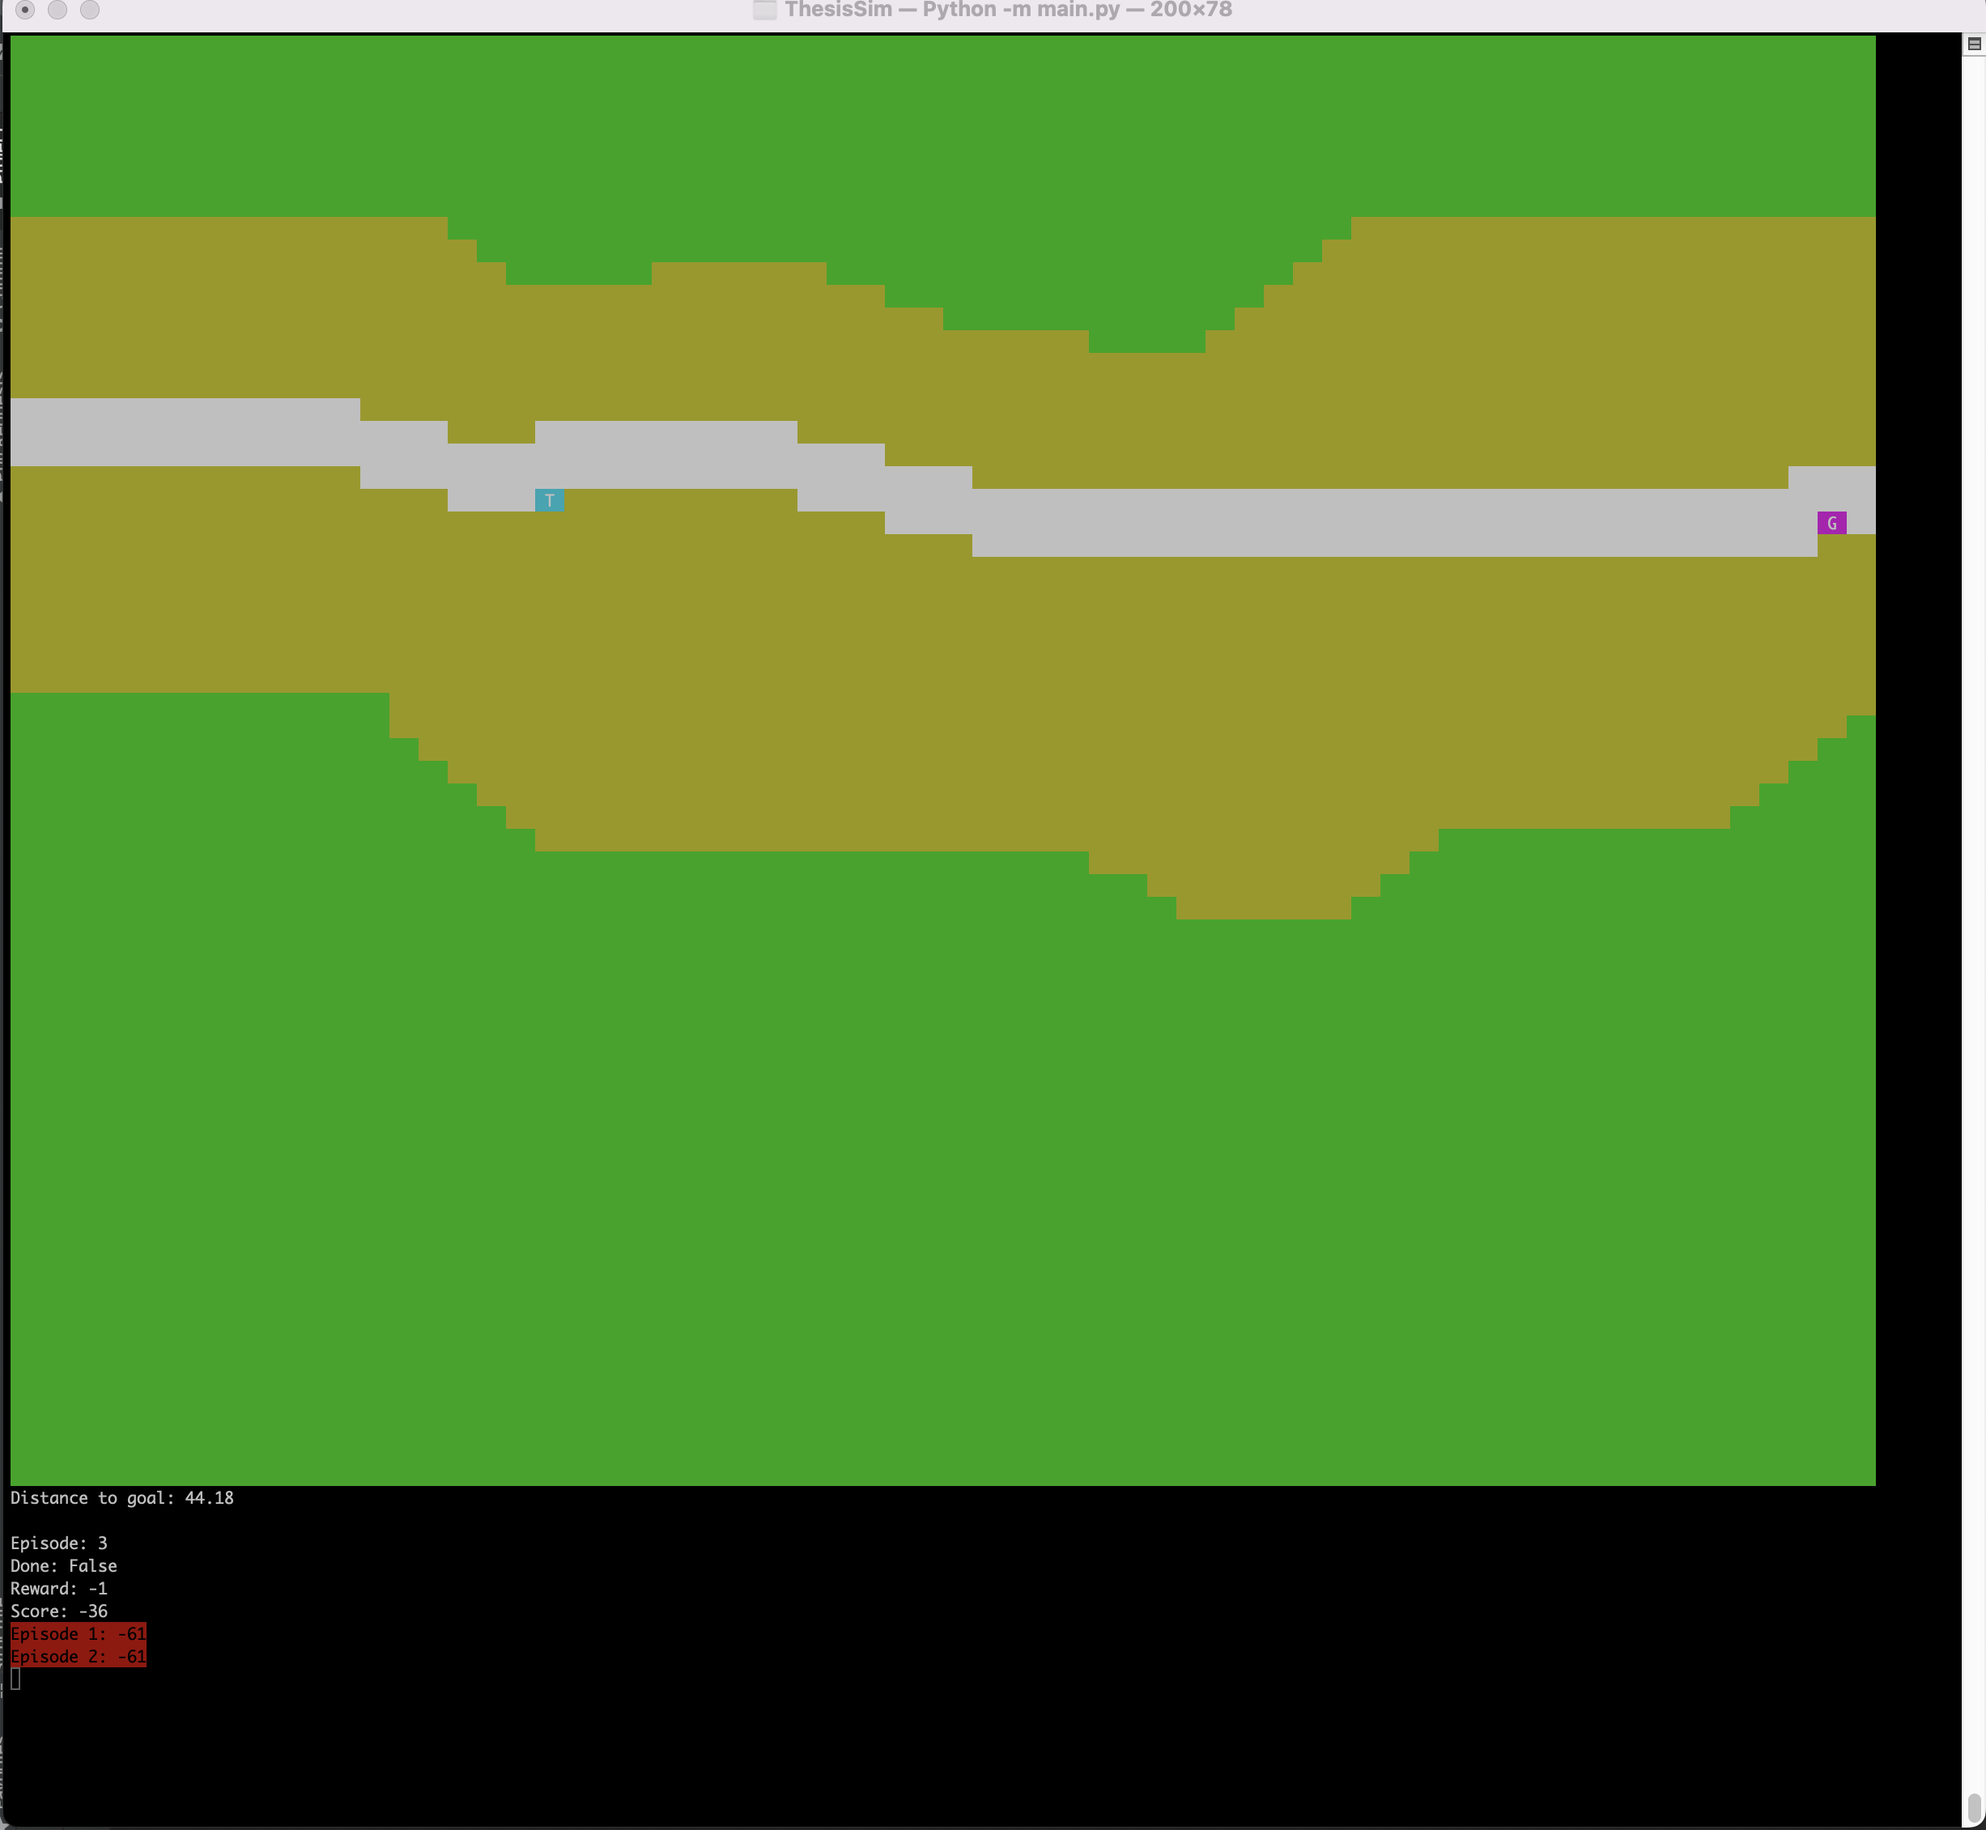
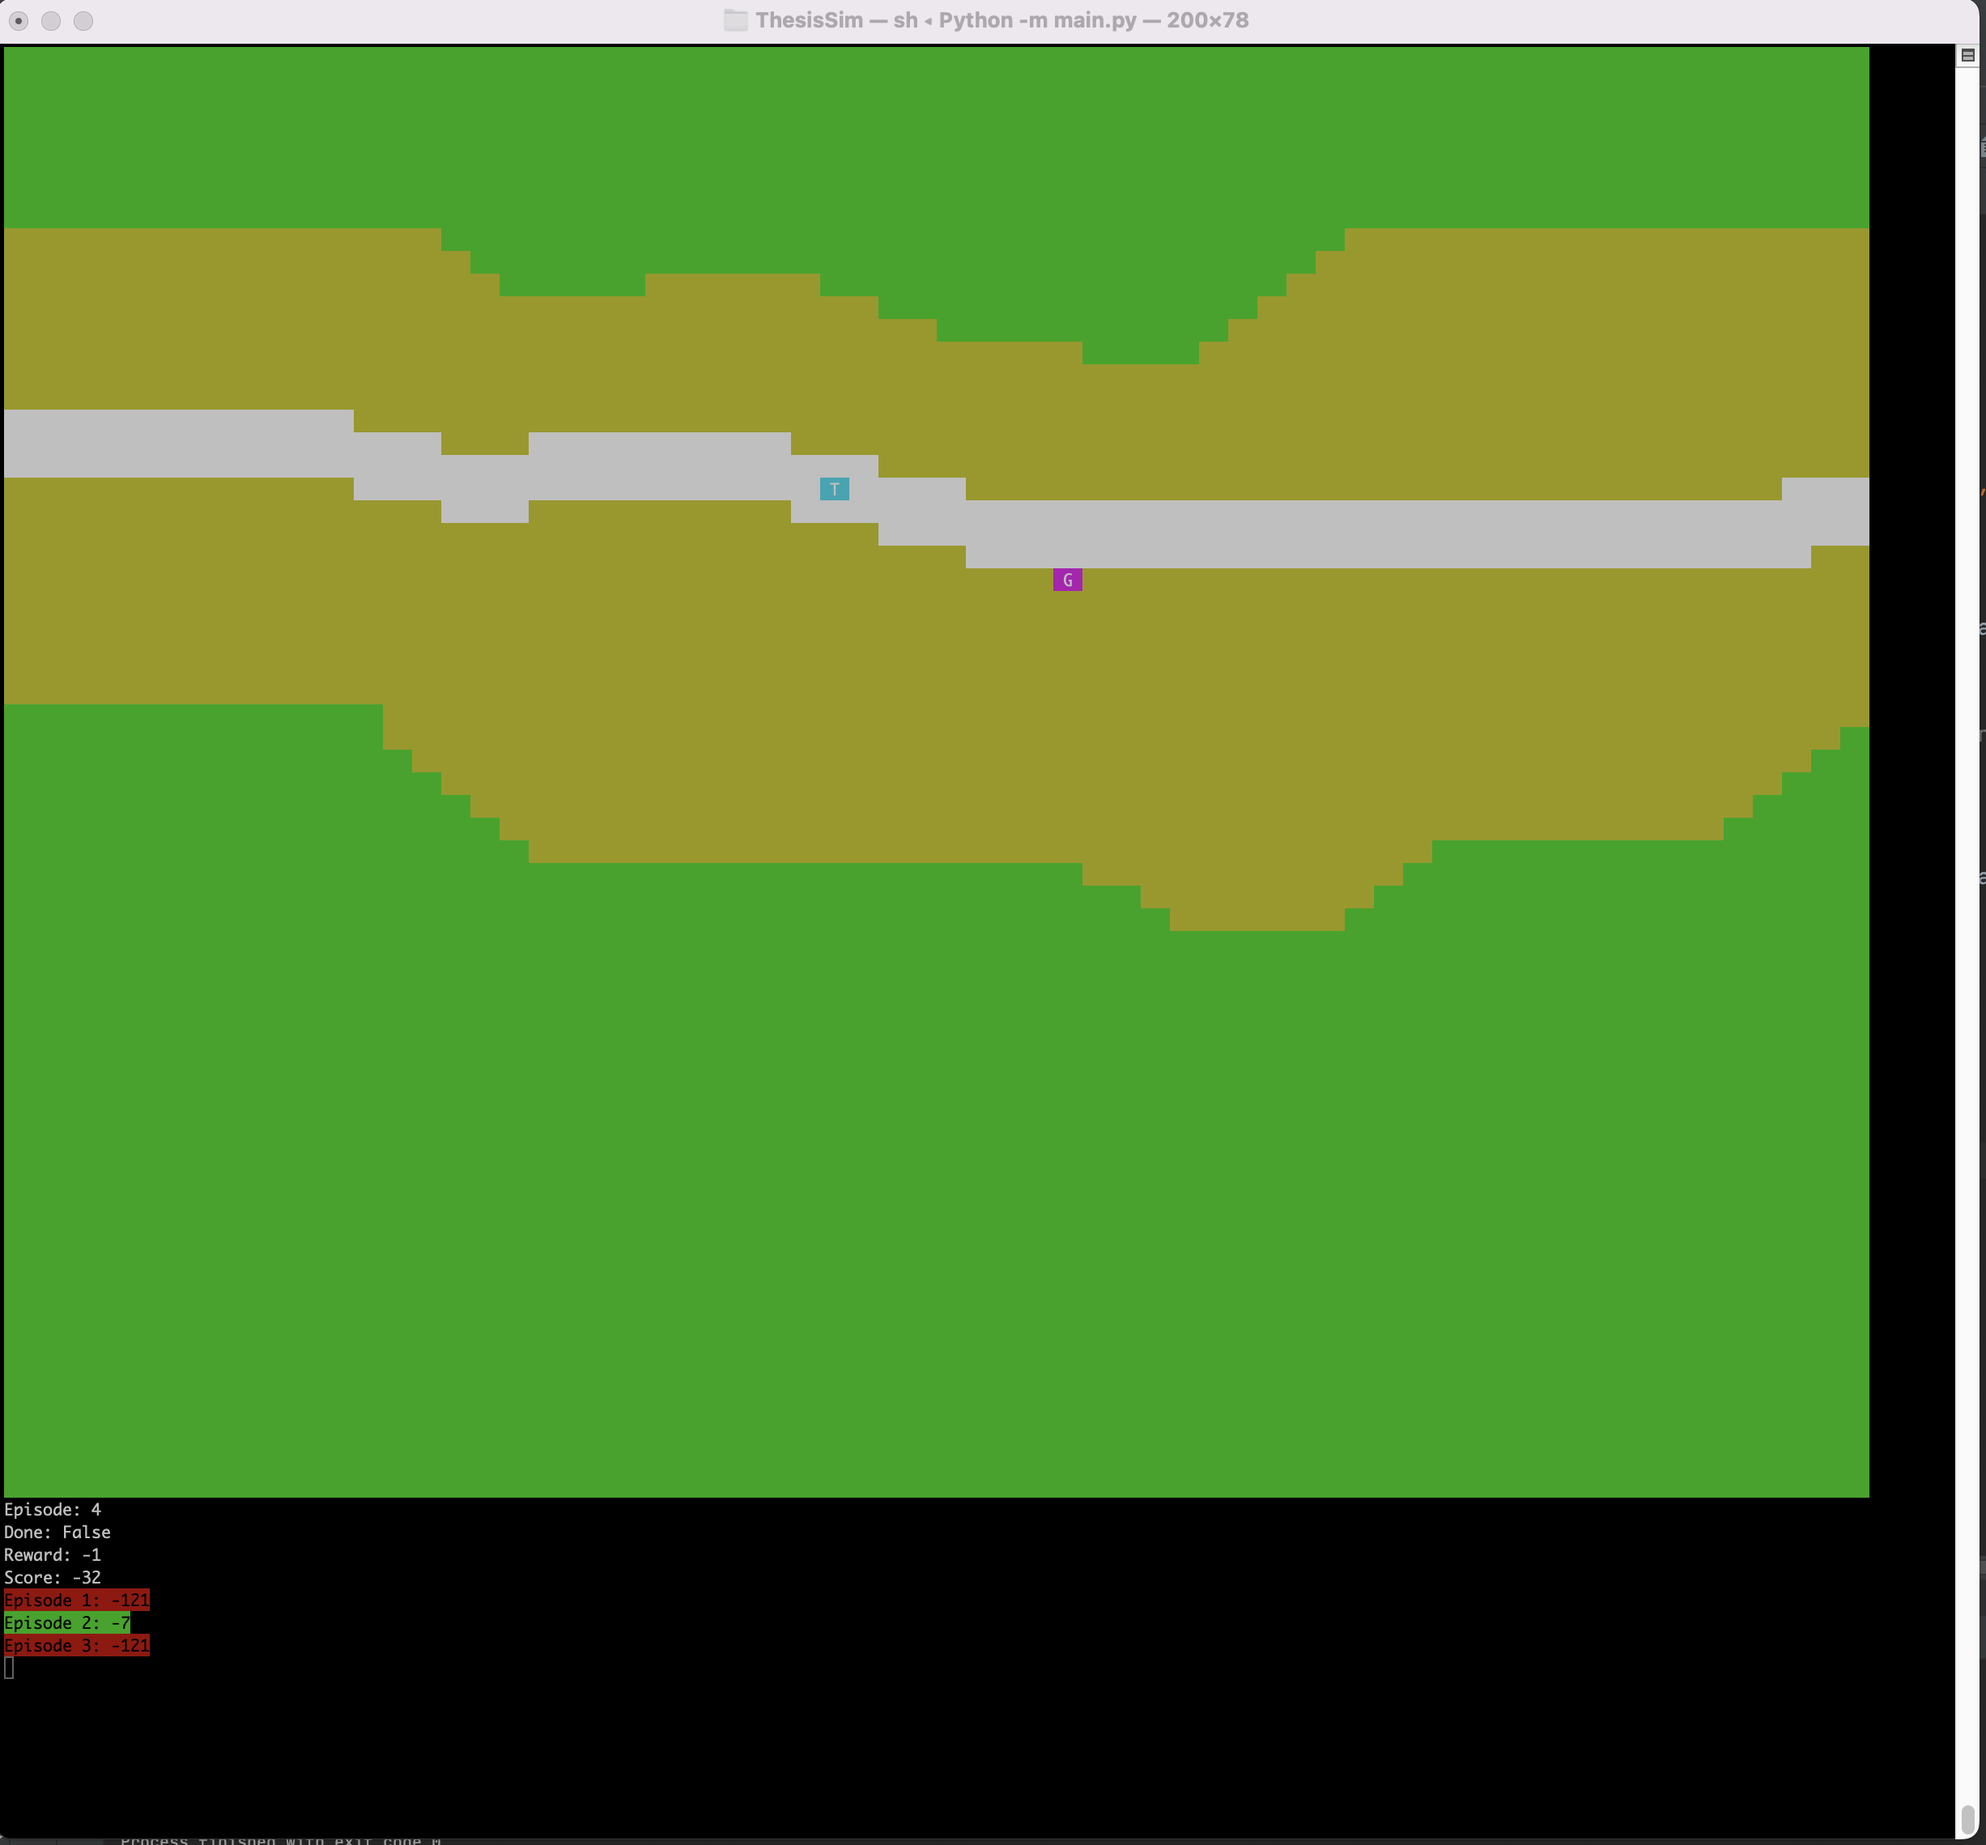
Reduced Observation Space with Distance and Direction to Goal Updated Documentation

diff --git a/MilVehicleSimEnv.py b/MilVehicleSimEnv.py
@@ -16,22 +16,46 @@ import reduce_obspace
 
 class MilVehicleSimEnv(Env):
     def __init__(self):
+        '''
+        The following setting can be set by the user to change the characteristics of the simulation
+        '''
+
+        # set Map and Scenar File!
+        self.map_file = "maps/Map01_TankSimEnv.csv"
+        self.scenar_file = "scenars/Scenar02_TankSimEnv.csv"
+        print("Yeah!")
+
         # set Path Tracking
-        self.path_tracking = True
+        self.path_tracking = False
+
+        # User settings: set Drone Mode
+        self.drone_mode = True
+        # User settings: set Drone Speed
+        self.speed_drone = 1  # should not be more than 3
+
+        # User setting: IED Mode
+        self.ied_mode = False
+        # User setting: show IEDs to user in rendering
+        self.show_ied = False
+
+        # User setting: Set episode length
+        self.timesteps = 120
+
+        # User setting: set if observation space is reduced
+        self.reduced_obspace = True
+
+
+        '''
+        The following settings and initialization are no user setting
+        '''
+
+        # initialize the timesteps
+        self.episode_length = self.timesteps
+
+        # initialize the path tracking
         if self.path_tracking:
             self.path_track_x = []
             self.path_track_y = []
-
-        # set Drone Mode
-        self.drone_mode = True
-        self.speed_drone = 1
-
-        # Set episode length
-        self.timesteps = 60
-        self.episode_length = self.timesteps
-
-        # set if observation space is reduced
-        self.reduced_obspace = True
 
         # set map size (needs to correlate with csv-file size!)
         self.map_length = 64
@@ -41,15 +65,6 @@ class MilVehicleSimEnv(Env):
         self.speed_sand = 2
         self.speed_forrest = 1
 
-        # set Map and Scenar File!
-        map_file = "maps/Map01_TankSimEnv.csv"
-        self.scenar_file = "scenars/Scenar05_TankSimEnv.csv"
-
-        # set IED Mode
-        self.ied_mode = True
-        # show IEDs to user in rendering
-        self.show_ied = True
-
         # set Boolean for IED activation
         self.ied_attack = False
 
@@ -57,7 +72,7 @@ class MilVehicleSimEnv(Env):
         self.goal_reached = False
 
         # load map file
-        with open(map_file, newline='') as csvfile_map:
+        with open(self.map_file, newline='') as csvfile_map:
             self.list_map = list(csv.reader(csvfile_map, delimiter=';'))
         # convert map list to int
         for y in range(self.map_length):
@@ -93,7 +108,7 @@ class MilVehicleSimEnv(Env):
         self.action_space = Discrete(9)
 
         # Set the Framework List for the Observation Space
-        with open(map_file, newline='') as csvfile_observation_space:
+        with open(self.map_file, newline='') as csvfile_observation_space:
             self.observation_space = list(csv.reader(csvfile_observation_space, delimiter=';'))
             for y in range(self.map_length):
                 for x in range(self.map_length):
@@ -195,6 +210,23 @@ class MilVehicleSimEnv(Env):
         if self.distance_goal <= 2:
             self.goal_reached = True
 
+        # calculate the direction to the goal
+        self.angle_to_goal = math.atan2(self.y_coord - self.y_coord_goal, self.x_coord - self.x_coord_goal)
+        self.angle_to_goal = round(math.degrees(self.angle_to_goal), 0)
+        #print(self.angle_to_goal)
+
+        # describe the angle in N E S or W
+        if self.angle_to_goal >= -135 and self.angle_to_goal <= -45:
+            self.goal_direction = 1
+        elif self.angle_to_goal > -45 and self.angle_to_goal < 45:
+            self.goal_direction = 2
+        elif self.angle_to_goal >= 45 and self.angle_to_goal <= 135:
+            self.goal_direction = 3
+        elif self.angle_to_goal > 135 and self.angle_to_goal <= 180 or self.angle_to_goal < -135 and self.angle_to_goal >=-180:
+            self.goal_direction = 4
+        else:
+            self.goal_direction = 0
+
         # setting the reward here
         if self.distance_goal > 1:
             reward = -1
@@ -251,6 +283,20 @@ class MilVehicleSimEnv(Env):
         # reduce observation space if needed
         if self.reduced_obspace:
             self.reduced_obspace_list = reduce_obspace.reduce_obspace(self.observation_space, self.map_length)
+            #print(self.reduced_obspace_list)
+
+            # append the distance and the direction to the goal to the observation space
+            self.obspace_line_dist_goal = []
+            for i in range(len(self.reduced_obspace_list[0])):
+                if i == 0:
+                    self.obspace_line_dist_goal.append(int(round(self.distance_goal / 10, 0)))
+                elif i == 1:
+                    self.obspace_line_dist_goal.append(int(self.goal_direction))
+                    #self.obspace_line_dist_goal.append(int(self.angle_to_goal))
+                else:
+                    self.obspace_line_dist_goal.append(0)
+            self.reduced_obspace_list.append(self.obspace_line_dist_goal)
+
             #print(self.reduced_obspace_list)
 
 

diff --git a/obspace_show.py b/obspace_show.py
@@ -16,8 +16,8 @@ map_file = 'observation_space/observation_space.csv'
 
 # set the reduced observation space
 reduced_obspace = True
-#reduced_obspace_size = 25  # 5 x 5
-reduced_obspace_size = 49  # 7 x 7
+reduced_obspace_size = 25  # 5 x 5
+#reduced_obspace_size = 49  # 7 x 7
 
 
 finished = False
@@ -38,20 +38,29 @@ while not finished:
     with open(map_file, newline='') as csvfile_obspace:
         list_obspace = list(csv.reader(csvfile_obspace, delimiter=';'))
 
-    print(list_obspace)
-    print(list_obspace[1][1])
-
     # convert map list to int
-    for y in range(obspace_length):
+    for y in range(obspace_length + 1):
         for x in range(obspace_length):
             list_obspace[y][x] = int(list_obspace[y][x])
-
-
 
     # clear screen for rendering new frame of the map
     os.system('clear')
 
     # render the observation space in terminal
+    print(Back.BLACK + Fore.YELLOW, "Distance to Goal: ", list_obspace[obspace_length][0], end="\n" + Back.BLACK)
+    #print(Back.BLACK + Fore.YELLOW, "Angle to Goal: ", list_obspace[obspace_length][1], end="\n" + Back.BLACK)
+    if list_obspace[obspace_length][1] == 1:
+        print(Back.BLACK + Fore.YELLOW, "Direction to Goal: ", "North", end="\n" + Back.BLACK)
+    elif list_obspace[obspace_length][1] == 2:
+        print(Back.BLACK + Fore.YELLOW, "Direction to Goal: ", "East", end="\n" + Back.BLACK)
+    elif list_obspace[obspace_length][1] == 3:
+        print(Back.BLACK + Fore.YELLOW, "Direction to Goal: ", "South", end="\n" + Back.BLACK)
+    elif list_obspace[obspace_length][1] == 4:
+        print(Back.BLACK + Fore.YELLOW, "Direction to Goal: ", "West", end="\n" + Back.BLACK)
+    #elif list_obspace[obspace_length][0] == 4:
+    #    print(Back.BLACK + Fore.YELLOW, "Direction to Goal: ", "Not defined", end="\n" + Back.BLACK)
+    print()
+
     for y in range(obspace_length):
         for x in range(obspace_length):
             if list_obspace[y][x] == 90:
@@ -65,10 +74,13 @@ while not finished:
             elif list_obspace[y][x] == 99:
                 print(Back.MAGENTA + ' G', end=" " + Back.BLACK)
             elif list_obspace[y][x] == 10:
-                print(Back.CYAN + ' T', end=" " + Back.BLACK)
+                print(Back.CYAN + Fore.BLACK + ' T', end=" " + Back.BLACK)
             elif list_obspace[y][x] == 11:
                 print(Back.BLACK + '  ', end=" " + Back.BLACK)
         print("")
+
+        #print(f"Distance to Goal: {list_obspace[obspace_length + 1][1]}")
+        #print("")
             #elif list_obspace[y][x] == 80:
             #            print(Back.RED + ' B', end=" " + Back.BLACK)
 

diff --git a/merge_obspace.py b/merge_obspace.py
@@ -23,6 +23,8 @@ def get_obspace_render(observation_space, list_map, list_scenar, map_length, ied
 
     return observation_space
 
+'''
+# merge observation space with goal viewable
 def get_obspace(observation_space, list_map, list_scenar, map_length):
     for y in range(map_length):
         for x in range(map_length):
@@ -33,6 +35,17 @@ def get_obspace(observation_space, list_map, list_scenar, map_length):
                 observation_space[y][x] = list_scenar[y][x]
             if list_scenar[y][x] == 80:
                 observation_space[y][x] = list_map[y][x]
+'''
 
+# merge observation space without goal viewable
+# reduces Q-Table!
+def get_obspace(observation_space, list_map, list_scenar, map_length):
+    for y in range(map_length):
+        for x in range(map_length):
+            observation_space[y][x] = list_map[y][x]
+    for y in range(map_length):
+        for x in range(map_length):
+            if list_scenar[y][x] == 10:
+                observation_space[y][x] = list_scenar[y][x]
 
     return observation_space

diff --git a/reduce_obspace.py b/reduce_obspace.py
@@ -6,8 +6,8 @@ Institute: Institute for Simulation and Training
 
 map_length = 64
 
-#reduced_obspace_size = 25  # 5 x 5
-reduced_obspace_size = 49  # 7 x 7
+reduced_obspace_size = 25  # 5 x 5
+#reduced_obspace_size = 49  # 7 x 7
 
 def reduce_obspace(obspace, map_length):
     #entity_x_coord = 0

diff --git a/main.py b/main.py
@@ -39,7 +39,7 @@ for episode in range(episodes):
 
 
         score += reward
-        time.sleep(0.01)  # slowing down the rendering
+        time.sleep(0.08)  # slowing down the rendering
         env.render()
 
         # print the statistics ...

diff --git a/Documentation/MilVehicelSimEnv_Handbook.md b/Documentation/MilVehicelSimEnv_Handbook.md
@@ -86,6 +86,8 @@ The observation space includes:
 * the entity (tank/drone)
 * the goal
 * NOT the IED
+* Direction from the goal (in reduced observation space only)
+* Distance to the goal (in reduced observation space only)
 
 ### Full Observation Space
 Size: 64 x 64
@@ -109,6 +111,15 @@ The size of the reduced observation space can be set in the `reduce_obspace.py`:
 	#reduced_obspace_size = 25  # 5 x 5
 	reduced_obspace_size = 49  # 7 x 7
 
+The reduced observation space includes the direction of the entity from the goal and distance of the entity to the goal.
+
+* Direction from the goal:
+	* 1 = North
+	* 2 = East
+	* 3 = South
+	* 4 = West
+* Distance to the goal:
+	* Integer value from 0 to 6 (close to far)
 
 ### Observation Space Viewer
 The `obspace_show.py` can be run in a separate terminal. This script grabs the observation space from the observation_space folder. It is needed to activate show_obspace in the `main.py` to use this:
